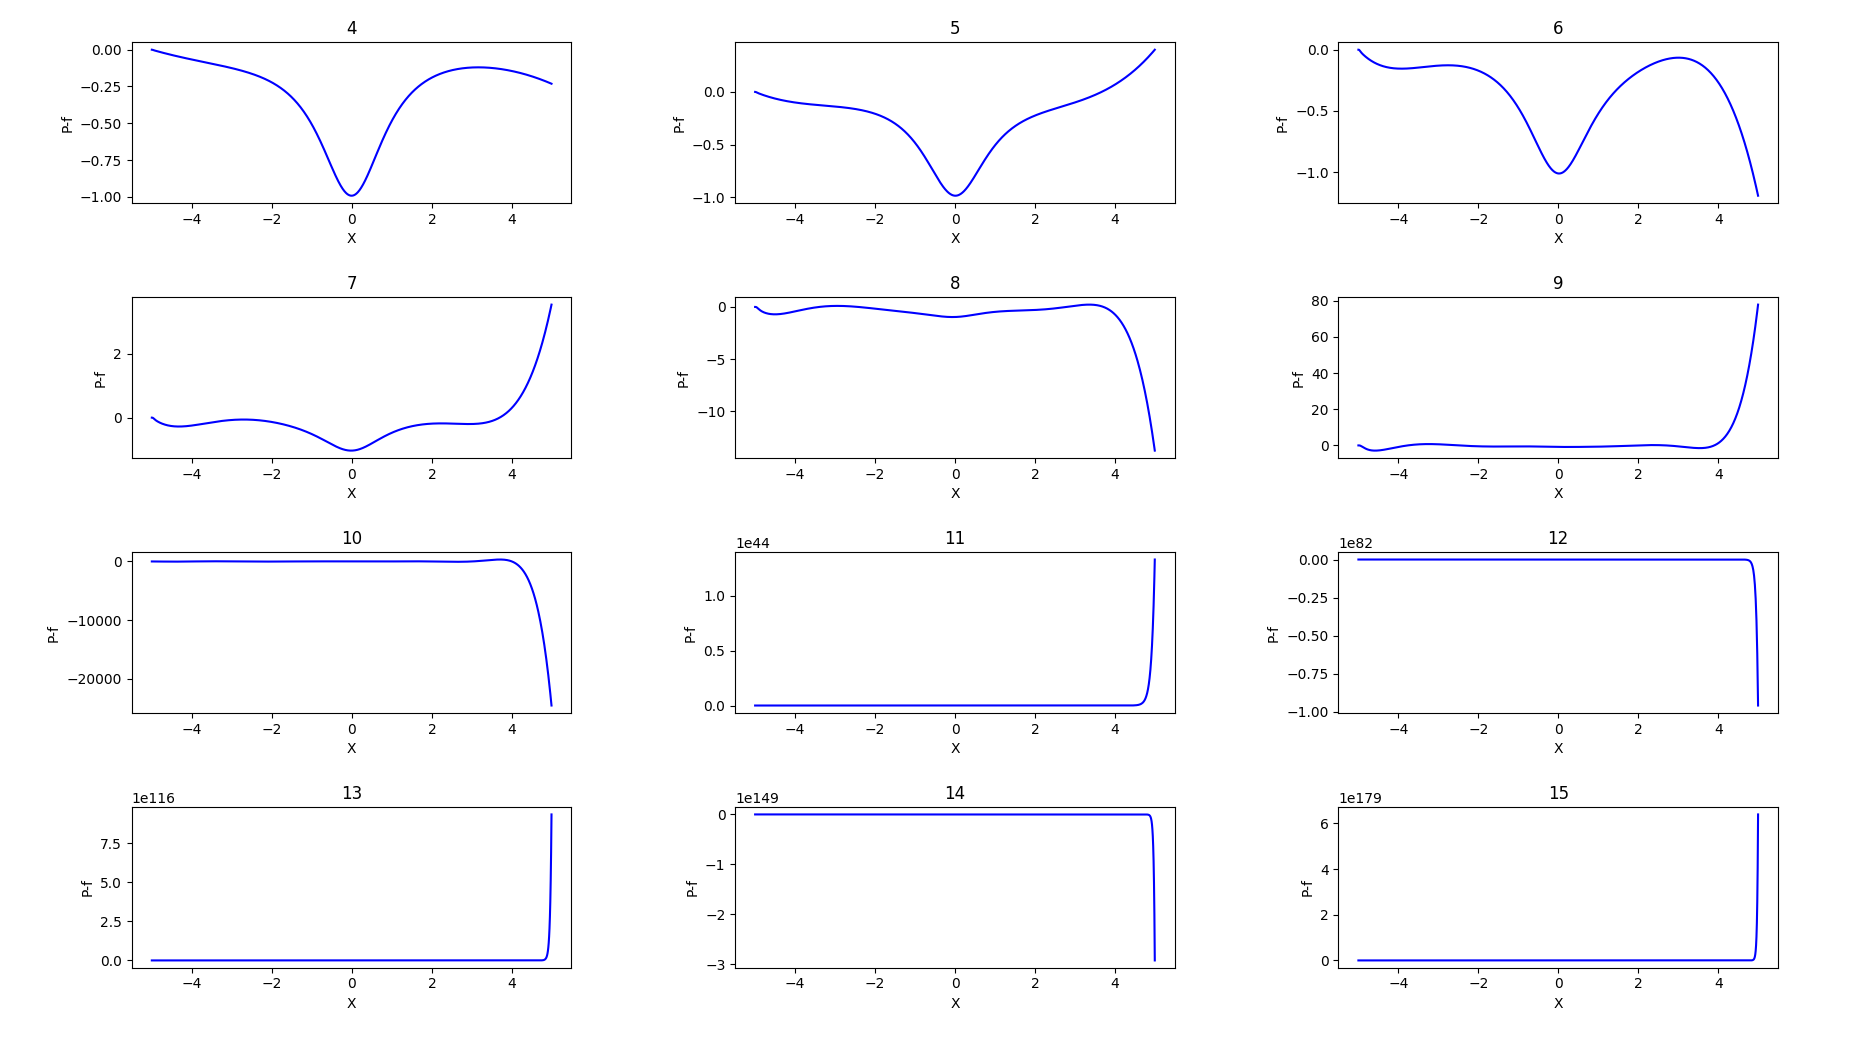
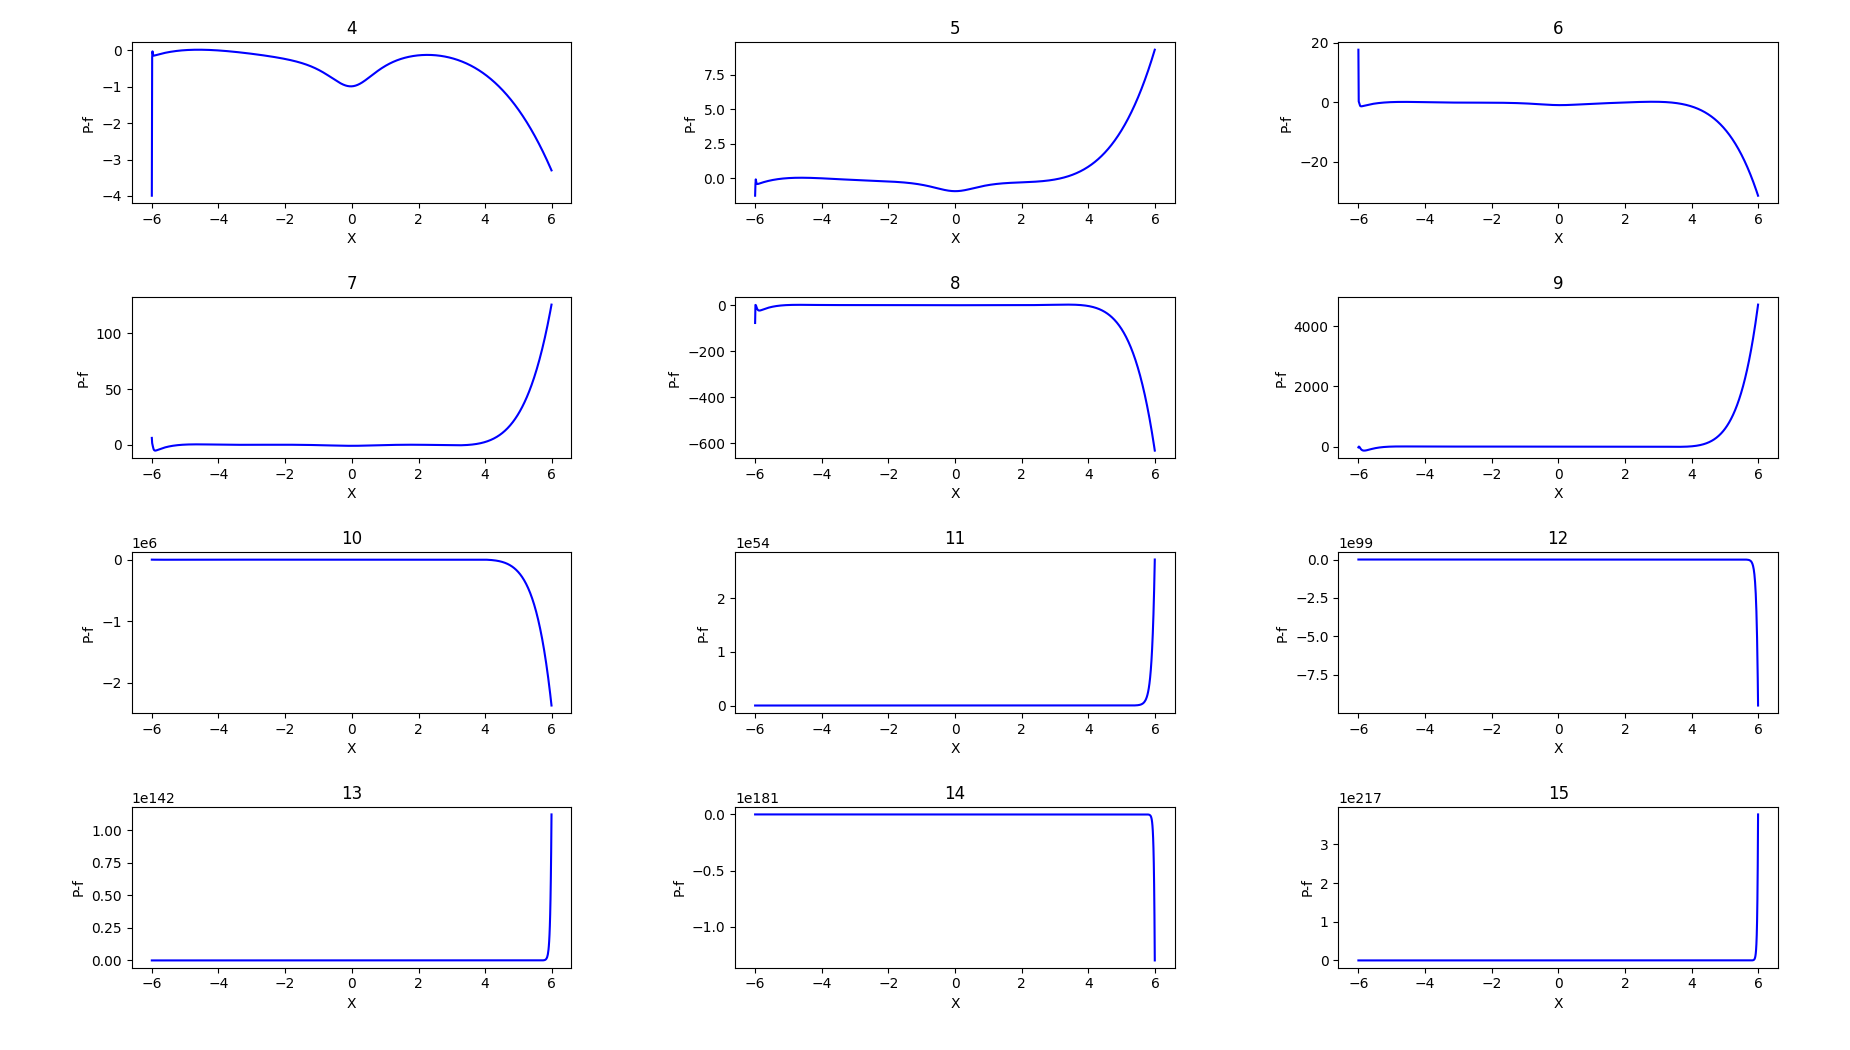
Made a Lagrange polynomical approximation

diff --git a/task5.py b/task5.py
@@ -27,7 +27,7 @@ def divided_dif(x_points, y_points, n):
     f(x_0, x_1, x_2)= {f(x_2) - f(x_2)]/[x_2 - x_1] - f(x_1) - f(x_0)]/[x_1 - x_0]}/[x_2 - x_0]
 
     """
-    for i in range(1, n):
+    for i in range(1, n+1):
         y_points[i:] = (y_points[i:] - y_points[i-1])/(x_points[i:] - x_points[i-1])
     return y_points
 
@@ -35,9 +35,36 @@ def divided_dif(x_points, y_points, n):
 def newtown(x_points, y_points, x, n):
     factors = divided_dif(x_points, y_points, n)
     pn = factors[n-1]
-    for i in range(1, n):
-        pn = factors[n-1-i] + (x - x_points[n-1-i]) * pn
+    for i in range(1, n+1):
+        pn = factors[n-i] + (x - x_points[n-i]) * pn
     return pn
+
+
+def lagrange_factors(x_points: list, n: int) -> list:
+    factors = []
+    for j in range(n):
+        factor = 1.
+        for i in range(n):
+            if j != i:
+                factor *= (x_points[j] - x_points[i])
+        factors.append(factor)
+
+    return factors
+
+
+
+def Lagrange(x_points, y_points, x, n) -> float:
+
+    factors = lagrange_factors(x_points, n)
+    polynom = 0
+    for i in range(n):
+        phi = 1.
+        for j in range(n):
+            phi *= (x - x_points[i])
+        polynom += phi * y_points[i] / factors[i]
+    return polynom
+
+
 
 # def newtown(x_points, y_points, x, n):
 #     factors = divided_dif(x_points, y_points, n+1)
@@ -56,7 +83,7 @@ def run():
             x_points.append(f_x(k, n))
             y_points.append(f_y(x_points[k]))
             #print(n, len(x_points), len(y_points))
-        x = np.arange(-5., 5., 0.01)
+        x = np.arange(-6., 6., 0.01)
         polynom = []
         for i in range(len(x)):
             f = f_y(x[i])
@@ -69,3 +96,26 @@ def run():
 
     fig.set_size_inches(18.5, 10.5)
     plt.savefig('task5.png')
+
+def run_lagrange():
+    fig, axs = plt.subplots(nrows=4, ncols=3)
+    plt.tight_layout(pad=1, h_pad=1, w_pad=1)
+    for n in range(4, 16, 1):  #до 16-ти
+        x_points, y_points = [], []
+        for k in range(n):
+            x_points.append(f_x(k, n))
+            y_points.append(f_y(x_points[k]))
+            #print(n, len(x_points), len(y_points))
+        x = np.arange(-6., 6., 0.01)
+        polynom = []
+        for i in range(len(x)):
+            f = f_y(x[i])
+            p = Lagrange(x_points, y_points, x[i], n)
+            polynom.append(p-f)
+        axs[(n-4)//3, (n-4) % 3].plot(x, polynom, color='blue')
+        axs[(n-4)//3, (n-4) % 3].set(xlabel='X')
+        axs[(n-4)//3, (n-4) % 3].set(ylabel='P-f')
+        axs[(n - 4) // 3, (n - 4) % 3].set(title=str(n))
+
+    fig.set_size_inches(18.5, 10.5)
+    plt.savefig('task5_lagrange.png')

diff --git a/main.py b/main.py
@@ -6,5 +6,5 @@ import task5
 
 if __name__ == '__main__':
 
-    task4.run()
+    task5.run_lagrange()
 
